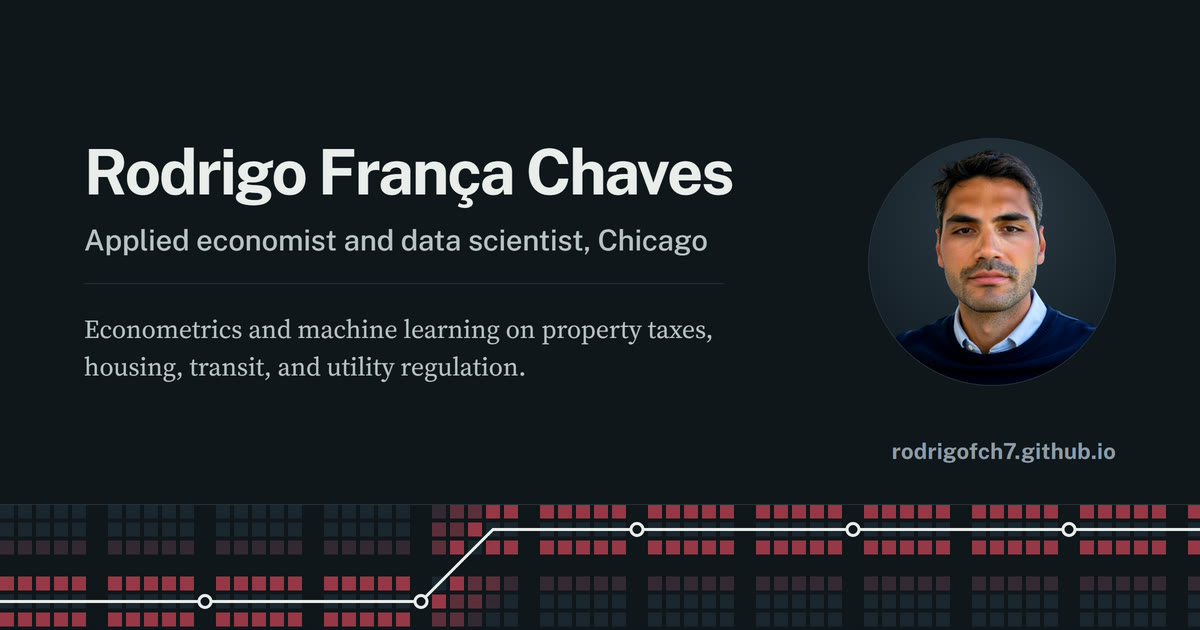
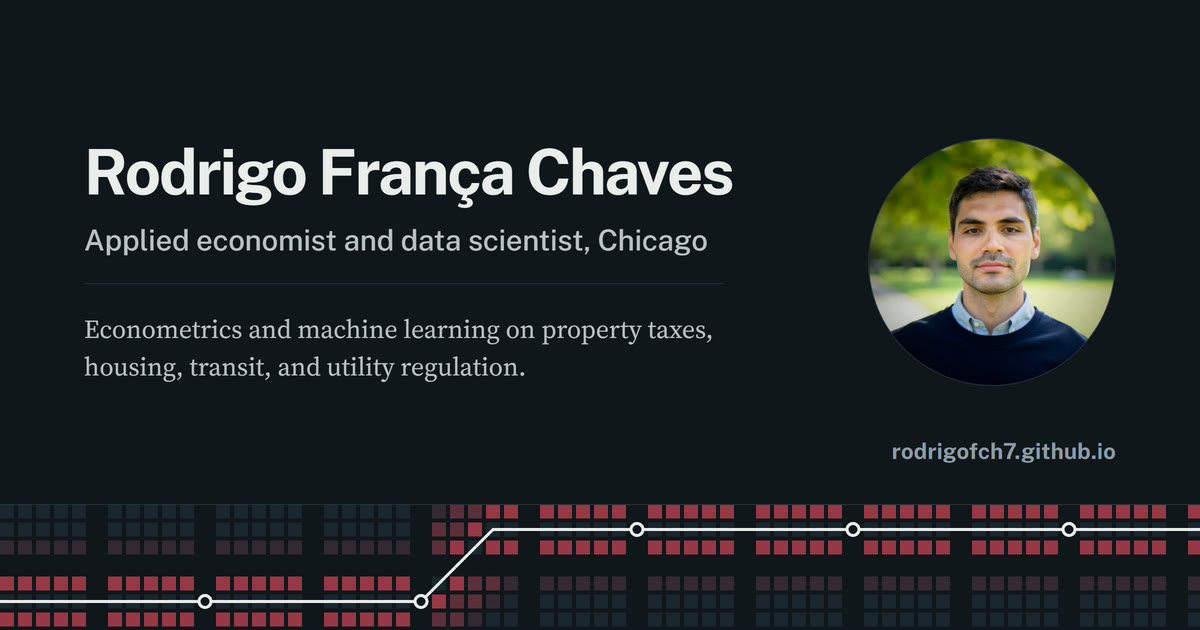
Re-render the social card with the new headshot
The card is a pre-rendered 1200x630 image, so replacing the portrait
files did not touch it. Rendered from assets/og-card.source.html,
which already points at rodrigo-headshot@2x.webp, at 2x and
downscaled so the type stays crisp in feeds.

Bumped the og:image and twitter:image cache-buster to v=3. Without it
the platforms keep serving the copy they already have.

Changed region(s): [[0.7092, 0.2111, 0.925, 0.573]]

diff --git a/index.html b/index.html
@@ -9,13 +9,13 @@
 <meta property="og:description" content="Applied economist and data scientist working on property taxes, housing, transit, and regulation.">
 <meta property="og:type" content="website">
 <meta property="og:url" content="https://rodrigofch7.github.io/">
-<meta property="og:image" content="https://rodrigofch7.github.io/assets/og-card.jpg?v=2">
+<meta property="og:image" content="https://rodrigofch7.github.io/assets/og-card.jpg?v=3">
 <meta property="og:image:width" content="1200">
 <meta property="og:image:height" content="630">
 <meta property="og:image:alt" content="Rodrigo França, applied economist and data scientist working on property taxes, housing, transit, and regulation.">
 <meta property="og:site_name" content="Rodrigo França Chaves">
 <meta name="twitter:card" content="summary_large_image">
-<meta name="twitter:image" content="https://rodrigofch7.github.io/assets/og-card.jpg?v=2">
+<meta name="twitter:image" content="https://rodrigofch7.github.io/assets/og-card.jpg?v=3">
 <link rel="canonical" href="https://rodrigofch7.github.io/">
 <link rel="icon" href="assets/favicon.svg" type="image/svg+xml">
 <link rel="icon" href="assets/favicon-64.png" sizes="64x64" type="image/png">
